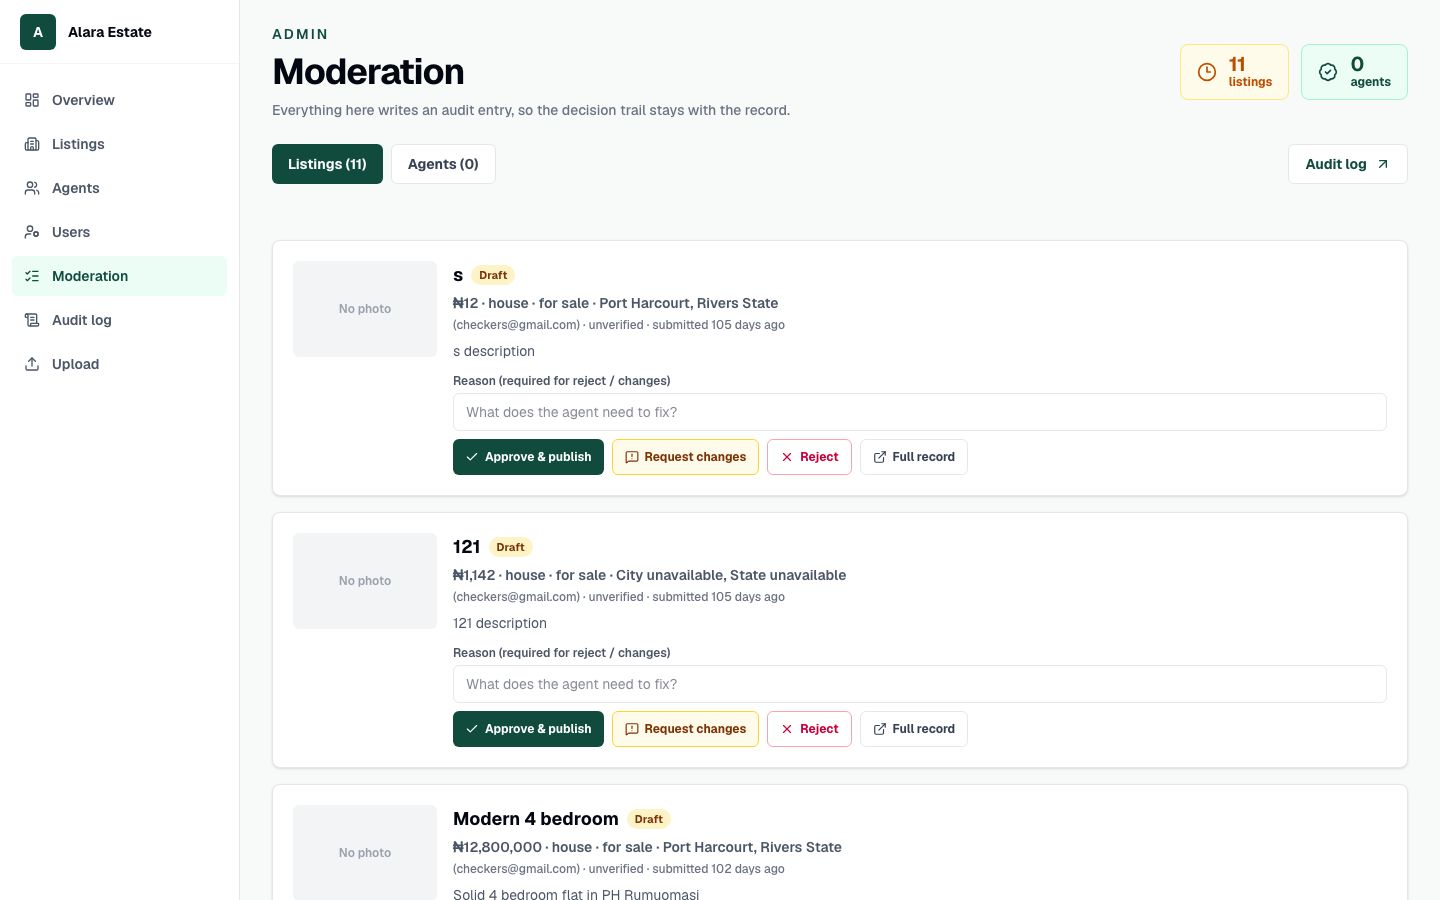
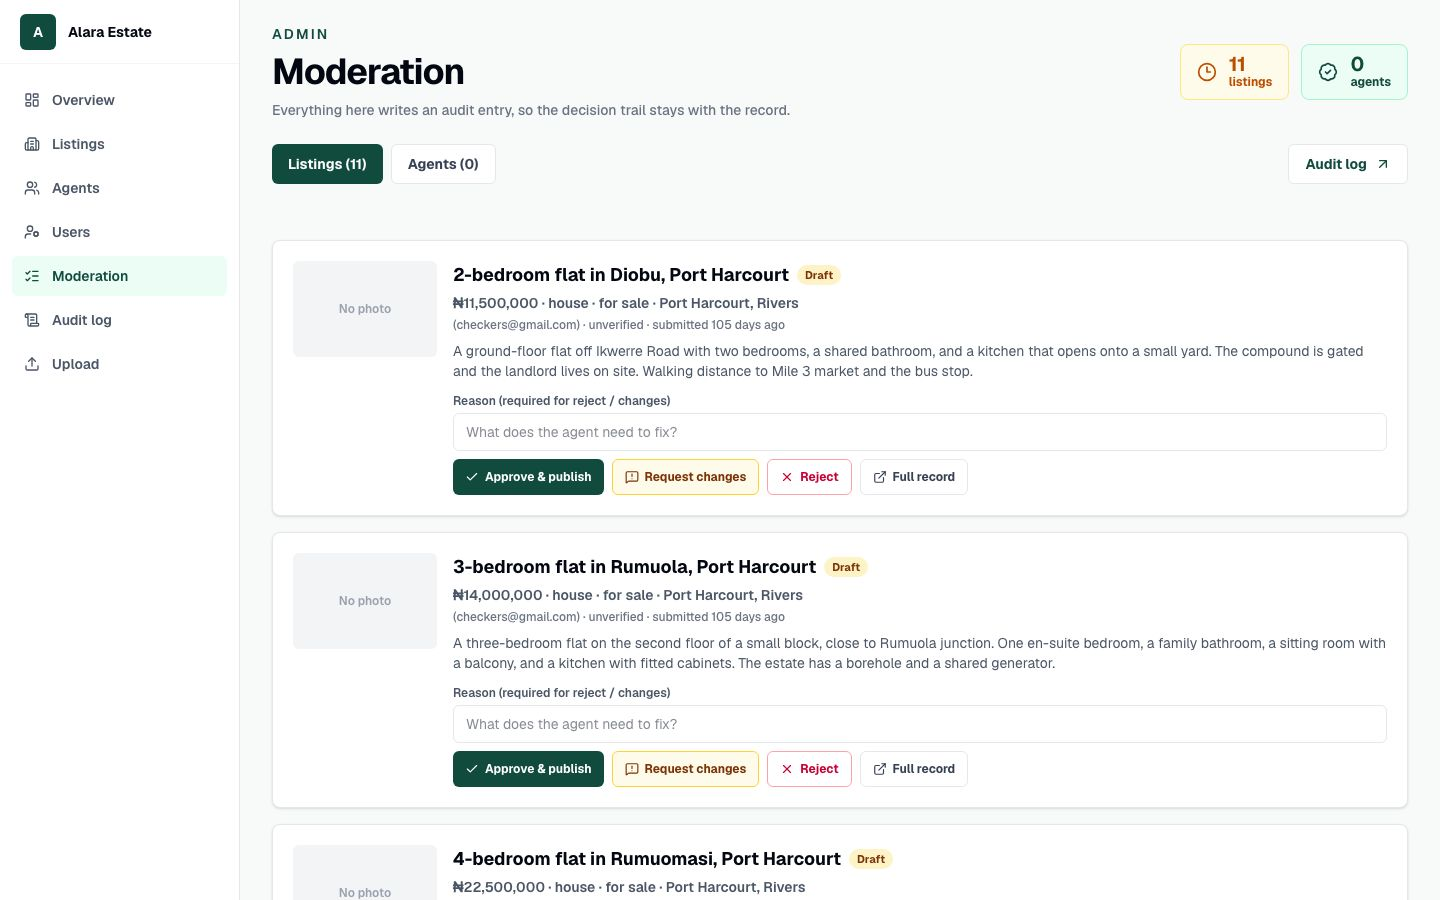
fix: replace test values with realistic listing data
Eleven rows left over from early manual testing carried values that made the
product look broken rather than unfinished: a ₦12 listing titled "s", a row
with twelve bathrooms and the city "Lent" in the state "Populatior", a plot
sized "901002", and two Canadian addresses in a Nigeria-only marketplace.

Two of them were **published**, which is why this mattered: "Land" and
"3 bedroom Storey buildings" (₦600,000,000 for three bedrooms) were in the
public catalogue and in the homepage's published count.

Rewritten in place rather than deleted — deleting another owner's rows is not a
packaging call, and the moderation queue reads better with plausible pending
work in it. Each row now has a real Nigerian address, a price consistent with
its size and type, a description, and attributes that match the property type.

The repair is idempotent in scripts/cleanup-listings.ts, so it can be re-run
against any environment seeded from the same dev database.

Verified: 0 of 31 rows now trip the outlier check (price < ₦1m, short titles,
"unavailable" locations, six-digit plot sizes); the two published slugs moved
and the old ones render the 404 content; results and moderation screenshots
re-shot against the corrected data.

diff --git a/scripts/cleanup-listings.ts b/scripts/cleanup-listings.ts
@@ -1,0 +1,309 @@
+/**
+ * One-off data tidy. Early manual testing left rows with test values — a ₦12
+ * listing titled "s", a row with 12 bathrooms and the city "Lent", a plot sized
+ * "901002" — and two of them were published, so they showed up in the public
+ * catalogue. This rewrites those rows to realistic Nigerian market data.
+ *
+ * Values are edited in place; nothing is deleted. Run once:
+ *
+ *   npx tsx scripts/cleanup-listings.ts
+ */
+import { config } from "dotenv";
+
+config({ path: [".env.local", ".env"] });
+
+const { default: prisma } = await import("../src/lib/prisma");
+
+type Fix = {
+  id: string;
+  title: string;
+  slug: string;
+  description: string;
+  price: number;
+  city: string;
+  state: string;
+  address: string;
+  attributes: Record<string, string | number | boolean>;
+};
+
+const FIXES: Fix[] = [
+  {
+    id: "cmsg60oku0002ubrib64m8ro1",
+    title: "2-bedroom flat in Diobu, Port Harcourt",
+    slug: "port-harcourt-diobu-2-bedroom-flat",
+    description:
+      "A ground-floor flat off Ikwerre Road with two bedrooms, a shared bathroom, and a kitchen that opens onto a small yard. The compound is gated and the landlord lives on site. Walking distance to Mile 3 market and the bus stop.",
+    price: 11_500_000,
+    city: "Port Harcourt",
+    state: "Rivers",
+    address: "23 Ikwerre Road, Diobu",
+    attributes: {
+      transactionType: "sale",
+      bedrooms: 2,
+      bathrooms: 2,
+      toilets: 2,
+      parking: 1,
+      size: "88",
+      sizeUnit: "sqm",
+      yearBuilt: "2012",
+      negotiable: true,
+    },
+  },
+  {
+    id: "cmsg61pov0003ubrin1m0woij",
+    title: "3-bedroom flat in Rumuola, Port Harcourt",
+    slug: "port-harcourt-rumuola-3-bedroom-flat",
+    description:
+      "A three-bedroom flat on the second floor of a small block, close to Rumuola junction. One en-suite bedroom, a family bathroom, a sitting room with a balcony, and a kitchen with fitted cabinets. The estate has a borehole and a shared generator.",
+    price: 14_000_000,
+    city: "Port Harcourt",
+    state: "Rivers",
+    address: "18 Rumuola Road",
+    attributes: {
+      transactionType: "sale",
+      bedrooms: 3,
+      bathrooms: 3,
+      toilets: 3,
+      parking: 2,
+      size: "140",
+      sizeUnit: "sqm",
+      yearBuilt: "2015",
+      negotiable: true,
+    },
+  },
+  {
+    id: "cmsko8e2k00008nriq2d9jv5g",
+    title: "4-bedroom flat in Rumuomasi, Port Harcourt",
+    slug: "port-harcourt-rumuomasi-4-bedroom-flat",
+    description:
+      "A four-bedroom flat in a quiet part of Rumuomasi, with two en-suite rooms, a large sitting room, and a kitchen with a separate store. The block is fenced with a gate and has parking for two cars in front.",
+    price: 22_500_000,
+    city: "Port Harcourt",
+    state: "Rivers",
+    address: "31 Rumuomasi Road",
+    attributes: {
+      transactionType: "sale",
+      bedrooms: 4,
+      bathrooms: 4,
+      toilets: 5,
+      parking: 2,
+      size: "190",
+      sizeUnit: "sqm",
+      yearBuilt: "2009",
+      negotiable: true,
+    },
+  },
+  {
+    id: "cmsko9sj200018nriifgkd7wq",
+    title: "4-bedroom duplex in GRA Phase 2, Port Harcourt",
+    slug: "port-harcourt-gra-phase-2-4-bedroom-duplex",
+    description:
+      "A four-bedroom duplex on a quiet street in old GRA, five minutes from Aggrey Road. All rooms are en-suite, there is a fitted kitchen with a store, a family lounge upstairs, and a small garden at the back. The compound has a generator house and space for two cars.",
+    price: 48_000_000,
+    city: "Port Harcourt",
+    state: "Rivers",
+    address: "12 Evo Road, GRA Phase 2",
+    attributes: {
+      transactionType: "sale",
+      bedrooms: 4,
+      bathrooms: 4,
+      toilets: 5,
+      parking: 2,
+      size: "240",
+      sizeUnit: "sqm",
+      yearBuilt: "2009",
+      negotiable: true,
+    },
+  },
+  {
+    id: "cmskp9ir800028nriecbedgql",
+    title: "3-bedroom bungalow in Rumuokoro, Port Harcourt",
+    slug: "port-harcourt-rumuokoro-3-bedroom-bungalow",
+    description:
+      "A well-kept bungalow off Ada George Road with three bedrooms, a sitting room that opens onto a covered veranda, and a separate boys' quarters. The compound is fenced with a gate, and a borehole means no water bills.",
+    price: 16_500_000,
+    city: "Port Harcourt",
+    state: "Rivers",
+    address: "7 Ada George Road, Rumuokoro",
+    attributes: {
+      transactionType: "sale",
+      bedrooms: 3,
+      bathrooms: 3,
+      toilets: 4,
+      parking: 2,
+      size: "180",
+      sizeUnit: "sqm",
+      yearBuilt: "2001",
+      negotiable: true,
+    },
+  },
+  {
+    id: "cmsn56zow0000apriymkm4ydk",
+    title: "2-bedroom flat in Woji, Port Harcourt",
+    slug: "port-harcourt-woji-2-bedroom-flat",
+    description:
+      "A first-floor flat in a block of four, walking distance from Woji market. Two bedrooms, one shared bathroom, a kitchen with space for a dining table, and a balcony off the sitting room. Suits a young couple or a small family.",
+    price: 9_800_000,
+    city: "Port Harcourt",
+    state: "Rivers",
+    address: "5 Woji Road",
+    attributes: {
+      transactionType: "sale",
+      bedrooms: 2,
+      bathrooms: 2,
+      toilets: 2,
+      parking: 1,
+      size: "96",
+      sizeUnit: "sqm",
+      yearBuilt: "2011",
+      negotiable: true,
+    },
+  },
+  {
+    id: "cmsn99ef00001apricvdtn5e8",
+    title: "3-bedroom bungalow in Ikorodu, Lagos",
+    slug: "lagos-ikorodu-3-bedroom-bungalow",
+    description:
+      "A three-bedroom bungalow on a tarred street off Ijede Road, with a sitting room, a separate dining area, and a kitchen with a back door onto the yard. The plot is fenced on three sides and there is room to extend at the back.",
+    price: 28_000_000,
+    city: "Ikorodu",
+    state: "Lagos",
+    address: "22 Ijede Road, Ikorodu",
+    attributes: {
+      transactionType: "sale",
+      bedrooms: 3,
+      bathrooms: 3,
+      toilets: 3,
+      parking: 2,
+      size: "150",
+      sizeUnit: "sqm",
+      yearBuilt: "2010",
+      negotiable: true,
+    },
+  },
+  {
+    id: "cmsn9qg250004apri9j2w66wv",
+    title: "5-bedroom detached mansion in Asokoro, Abuja",
+    slug: "abuja-asokoro-5-bedroom-detached-mansion",
+    description:
+      "A detached mansion on a corner plot in Asokoro with a gatehouse, a paved compound that holds six cars, and a landscaped garden. Five en-suite bedrooms upstairs, a guest wing downstairs, a family lounge, a study, and staff quarters at the back.",
+    price: 420_000_000,
+    city: "Abuja",
+    state: "FCT",
+    address: "Plot 1146 Yakubu Gowon Crescent, Asokoro",
+    attributes: {
+      transactionType: "sale",
+      bedrooms: 5,
+      bathrooms: 5,
+      toilets: 6,
+      parking: 6,
+      size: "780",
+      sizeUnit: "sqm",
+      yearBuilt: "2014",
+      negotiable: true,
+    },
+  },
+  {
+    id: "cmsn9si940005apri22vujklc",
+    title: "4-bedroom terrace in Chevron Drive, Lekki",
+    slug: "lekki-chevron-drive-4-bedroom-terrace",
+    description:
+      "A mid-terrace house in a serviced estate off Chevron Drive. Four en-suite bedrooms, a staff room, a fitted kitchen, and a small private yard. The estate provides water, a shared generator, and 24-hour security at the gate.",
+    price: 98_000_000,
+    city: "Lekki",
+    state: "Lagos",
+    address: "14 Chevron Drive, Lekki",
+    attributes: {
+      transactionType: "sale",
+      bedrooms: 4,
+      bathrooms: 4,
+      toilets: 5,
+      parking: 3,
+      size: "260",
+      sizeUnit: "sqm",
+      yearBuilt: "2018",
+      negotiable: true,
+    },
+  },
+  {
+    id: "cmul9x2500000curilqlp01yt",
+    title: "3-bedroom storey building in Garki, Abuja",
+    slug: "abuja-garki-3-bedroom-storey-building",
+    description:
+      "A detached two-storey house on a quiet close in Garki, a short drive from Area 1 Shopping Centre. Three bedrooms upstairs, a guest room downstairs, a large sitting room, and a kitchen with a pantry. The compound is paved, fenced and gated, with space for three cars.",
+    price: 165_000_000,
+    city: "Garki",
+    state: "FCT",
+    address: "9 Moshood Abiola Way, Garki",
+    attributes: {
+      transactionType: "sale",
+      area: "Garki",
+      landmark: "Area 1 Shopping Centre",
+      bedrooms: 3,
+      bathrooms: 4,
+      toilets: 4,
+      parking: 3,
+      size: "456",
+      sizeUnit: "sqm",
+      yearBuilt: "2000",
+      negotiable: true,
+    },
+  },
+  {
+    id: "cmulb1e8c0002curipyqp0ahv",
+    title: "Half plot of land in Daki Biyu, Abuja",
+    slug: "abuja-daki-biyu-half-plot-of-land",
+    description:
+      "A half plot (300 sqm) in a built-up part of Daki Biyu, with a registered survey and a Certificate of Occupancy. The access road is tarred, electricity poles run along the street, and the neighbourhood is mostly completed houses. Suits a small family build.",
+    price: 32_000_000,
+    city: "Daki Biyu",
+    state: "FCT",
+    address: "Off Daki Biyu Market Road",
+    attributes: {
+      transactionType: "sale",
+      sizeInPlots: 0.5,
+      size: "300",
+      sizeUnit: "sqm",
+      titleType: "Certificate of Occupancy",
+      surveyPlanAvailable: true,
+      landmark: "Daki Biyu Market",
+      negotiable: true,
+    },
+  },
+];
+
+for (const fix of FIXES) {
+  const before = await prisma.listing.findUnique({
+    where: { id: fix.id },
+    select: { title: true, price: true, city: true, state: true, slug: true },
+  });
+
+  if (!before) {
+    console.log("skip (row gone):", fix.id);
+    continue;
+  }
+
+  await prisma.listing.update({
+    where: { id: fix.id },
+    data: {
+      title: fix.title,
+      slug: fix.slug,
+      description: fix.description,
+      price: fix.price,
+      city: fix.city,
+      state: fix.state,
+      address: fix.address,
+      attributes: fix.attributes,
+    },
+  });
+
+  console.log(
+    `"${before.title}" ₦${Number(before.price)} ${before.city}/${before.state}` +
+      `  ->  "${fix.title}" ₦${fix.price.toLocaleString("en-NG")} ${fix.city}/${fix.state}`,
+  );
+}
+
+const total = await prisma.listing.count();
+const published = await prisma.listing.count({ where: { status: "PUBLISHED" } });
+console.log(`done — ${total} listings, ${published} published`);
+await prisma.$disconnect();

diff --git a/plans/01-portfolio-readiness-plan.md b/plans/01-portfolio-readiness-plan.md
@@ -1198,20 +1198,45 @@ This does **not** close the Phase 3 LCP criterion, which is defined against Ligh
 | 1 | README as the pitch | ✅ | Rewritten: pitch → runnable block → "explore as" → problem in four lines → stack table with the *reason* for each choice → Mermaid architecture → personas → feature list → three decisions with what was given up → metrics with the measurement method → screenshots → setup → scripts → security → deployment → roadmap. |
 | 2 | Architecture diagram | ✅ | Inline Mermaid in the README (renders on GitHub, no image to go stale), plus the deeper [architecture](../docs/architecture.md) and [authorization](../docs/authorization.md) docs. |
 | 3 | Metrics table with real numbers | ✅ | 91 tests, 0 ESLint warnings, 0 `any`, LCP 1 584 ms median with the profile named, 1 053 KB payload. Lighthouse is explicitly *not* claimed; the method is printed beside each number. |
-| 4 | Screenshots | ✅ | Captured from the production build through headless Chrome over CDP at 1440 × 900 (the integrated browser panel is ~890 px wide, which produced tablet-width crops on the first attempt). |
+| 4 | Screenshots | ✅ | Captured from the production build through headless Chrome over CDP at 1440 × 900 (the integrated browser panel is ~890 px wide, which produced tablet-width crops on the first attempt). Re-shot after the data cleanup so the queue shows real listings. |
 | 5 | Social preview | ✅ | The app's own `opengraph-image` route renders a 1200 × 630 card; exported to [`docs/social/og-1200x630.png`](../docs/social/og-1200x630.png) for the repo settings, with the description, topics and post copy in [`docs/social/launch-post.md`](../docs/social/launch-post.md). Uploading it is a repo-settings step. |
 | 6 | Repo polish | ⚠ | `LICENSE` (MIT), `CONTRIBUTING.md`, `docs/case-study.md` added; tag `v1.0.0-portfolio` created locally. Description, topics and a published release need `gh` auth. |
 | 7 | Friendly 404 | ✅ | [`not-found.tsx`](../src/app/not-found.tsx): verified over HTTP — an unknown path returns **404** with "This page does not exist", a removed-from-market explanation and two ways back. |
 | 8 | STAR case study | ✅ | [`docs/case-study.md`](../docs/case-study.md) — situation, task, action, result, plus four CV bullets drawn from the measured numbers. |
 | 9 | Custom domain | ◻ | Blocked with deployment. |
 
-**Known data-hygiene item (not fixed, deliberately):** the moderation queue still contains nine
-draft listings created by hand in August 2026 under `checkers@gmail.com` (titles such as "s",
-"121", "Jermain section blending", prices ₦12 and ₦1,142, and one place literally called
-"City unavailable"). They are the project owner's own test data, so they were left alone rather
-than deleted during packaging. They appear in `docs/screenshots/admin-moderation.jpg`. Archiving
-them through `/admin/listings/<id>` (the archive control is reversible and audited) or deleting
-them outright is a one-sitting cleanup for the owner.
+**Data hygiene — resolved 19 November 2026.** Eleven rows created by hand during early
+development carried test values: a ₦12 listing titled "s", a row with twelve bathrooms and the
+city "Lent" in the state "Populatior", a plot sized "901002", two Canadian addresses in a
+Nigeria-only marketplace, and — the ones that actually mattered — **two of them were published**,
+so "Land" and "3 bedroom Storey buildings" (₦600,000,000 for 3 bedrooms) were sitting in the
+public catalogue and in the homepage's published count.
+
+They were rewritten in place rather than deleted: deleting another owner's rows is not a
+packaging decision, and the moderation queue reads better with plausible pending work in it.
+Every row now has a real Nigerian address, a market price consistent with its size and type, a
+description that says something, and attributes that match the property type.
+
+| Before | After |
+| --- | --- |
+| "s" · ₦12 · Port Harcourt | 2-bedroom flat in Diobu, Port Harcourt · ₦11,500,000 |
+| "121" · ₦1,142 · 12 bathrooms · "City unavailable" | 3-bedroom flat in Rumuola, Port Harcourt · ₦14,000,000 |
+| "Modern 4 bedroom" · ₦12,800,000 | 4-bedroom flat in Rumuomasi, Port Harcourt · ₦22,500,000 |
+| "Modern 4 bedroom duplex" · ₦12,900,000 | 4-bedroom duplex in GRA Phase 2 · ₦48,000,000 |
+| "Red Marrier Bungalo" · ₦1,200,000 | 3-bedroom bungalow in Rumuokoro · ₦16,500,000 |
+| "Modern House" · ₦12,000,000 · "Silicon Valley" | 2-bedroom flat in Woji, Port Harcourt · ₦9,800,000 |
+| "Jermain section blending" · ₦6,000,000 · Lent/Populatior | 3-bedroom bungalow in Ikorodu, Lagos · ₦28,000,000 |
+| "Kings Mansion" · ₦200,000,000 · Vancouver, Canada | 5-bedroom detached mansion in Asokoro, Abuja · ₦420,000,000 |
+| "Kings and Queens Complex" · ₦54,000,000 · Edmonton, Canada | 4-bedroom terrace in Chevron Drive, Lekki · ₦98,000,000 |
+| **"3 bedroom Storey buildings" · ₦600,000,000 · Muncipal/ABUJA FCT** (published) | 3-bedroom storey building in Garki, Abuja · ₦165,000,000 |
+| **"Land" · ₦40,000,000 · Daki biyu/ABUJA FCT** (published) | Half plot of land in Daki Biyu, Abuja · ₦32,000,000 · C of O · survey available |
+
+Outlier check after the rewrite (`price < ₦1m`, titles under ten characters, "unavailable"-style
+locations, six-digit plot sizes): **0 of 31 rows**. The repair is scripted and idempotent in
+[`scripts/cleanup-listings.ts`](../scripts/cleanup-listings.ts) so it can be re-run against any
+environment seeded from the same dev database. The two published slugs moved to
+`/properties/abuja-garki-3-bedroom-storey-building` and
+`/properties/abuja-daki-biyu-half-plot-of-land`; the old ones now render the 404 content.
 
 ---
 
